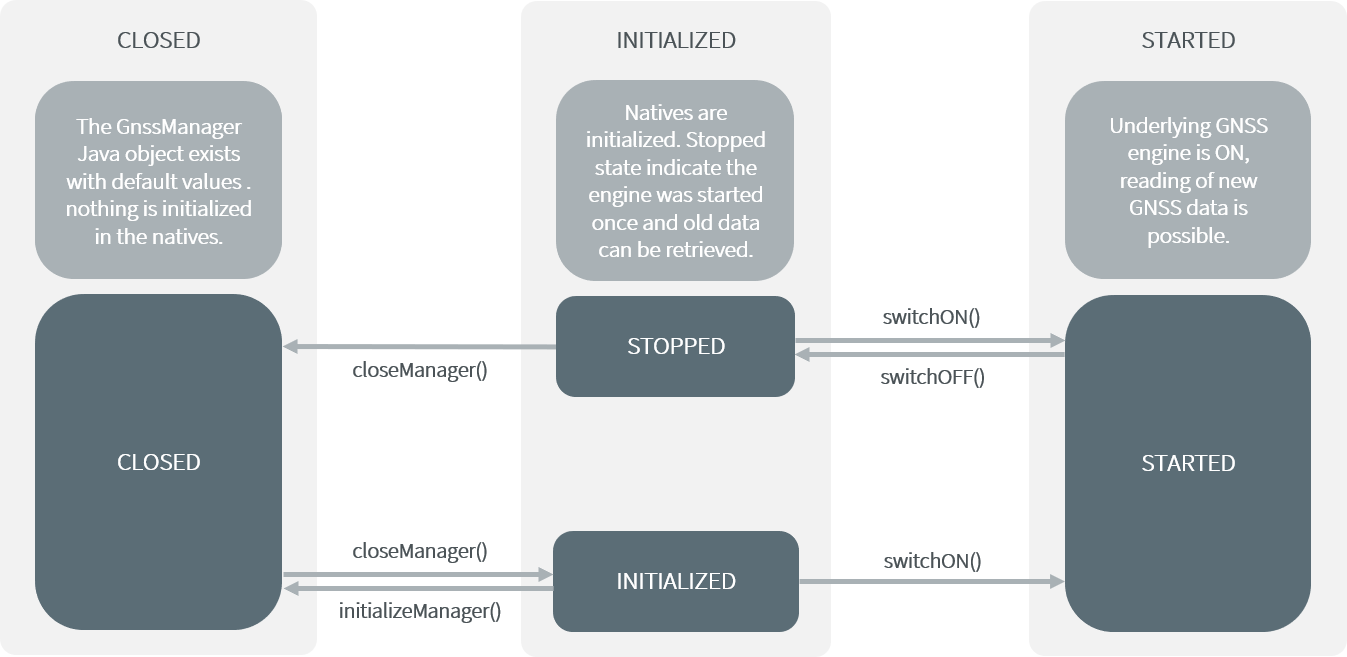
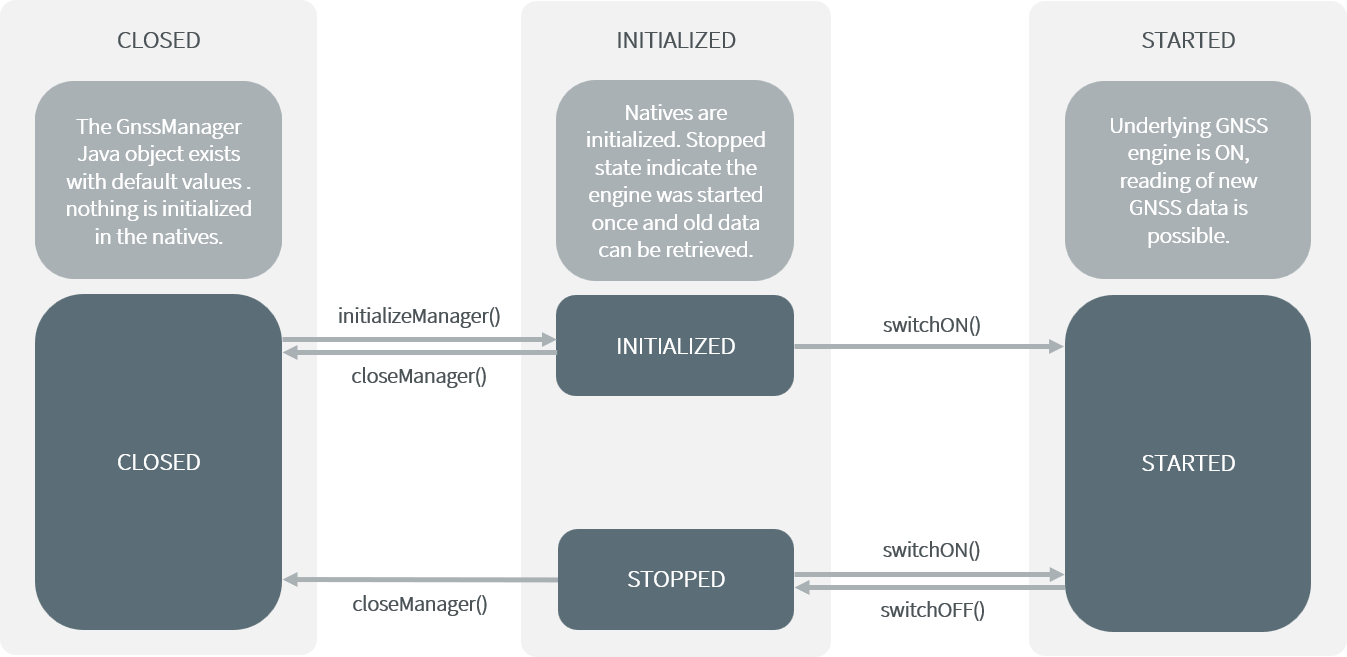
move gnss to libraries section, fix state machine graph.

diff --git a/ApplicationDeveloperGuide/gnss.rst b/ApplicationDeveloperGuide/gnss.rst
@@ -1,4 +1,4 @@
-.. _chapter.gnss:
+.. _gnss_api:
 
 ====
 GNSS
@@ -90,7 +90,7 @@ Please refer to the :ref:`VEE Porting Guide <pack_gnss>` to port GNSS for your p
 .. _GNSS API Module: https://forge.microej.com/artifactory/microej-developer-repository-release/ej/api/gnss/
 
 ..
-   | Copyright 2023, MicroEJ Corp. Content in this space is free 
+   | Copyright 2023-2025, MicroEJ Corp. Content in this space is free 
    for read and redistribute. Except if otherwise stated, modification 
    is subject to MicroEJ Corp prior approval.
    | MicroEJ is a trademark of MicroEJ Corp. All other trademarks and 

diff --git a/ApplicationDeveloperGuide/index.rst b/ApplicationDeveloperGuide/index.rst
@@ -56,7 +56,6 @@ A :ref:`Sandboxed Application <sandboxed_application>` is an Application that is
    modulesRepositories
    libraries
    tools
-   gnss
 
 ..
    | Copyright 2008-2025, MicroEJ Corp. Content in this space is free 

diff --git a/ApplicationDeveloperGuide/libraries.rst b/ApplicationDeveloperGuide/libraries.rst
@@ -46,6 +46,7 @@ To consult its libraries APIs documentation, please visit `<https://developer.mi
    microai
    javaTime
    eventQueue
+   gnss
    js/index
 
 ..
